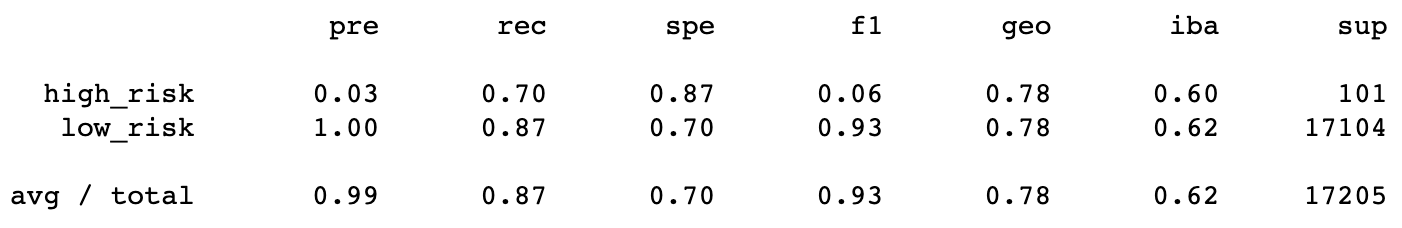
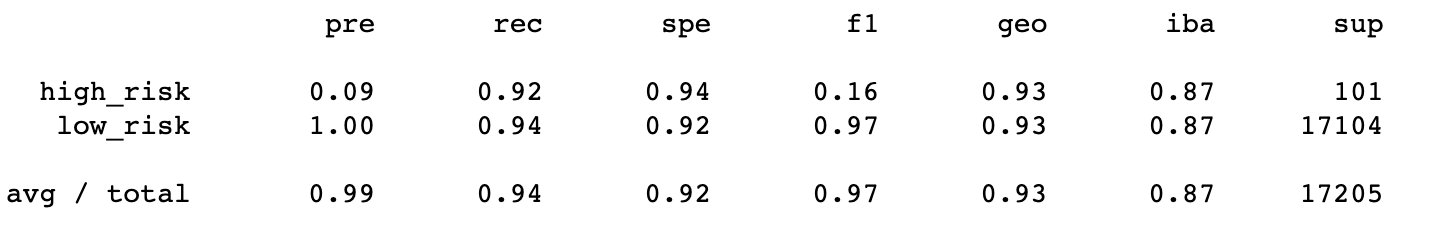
fixed picture issues and updated readme

diff --git a/README.md b/README.md
@@ -1,1 +1,86 @@
-# credit_risk_analysis
+# Credit Risk Analysis: Which Model is Right for the Job?
+
+## Overview
+
+### Introduction
+
+The world of machine learning offers a wide variety of models that make predictions on your dataset to varying degrees of accuracy (degrees of precision and recall as well). To test which one is the best for assessing risk in the field of credit, six supervised machine learning models were trained on the same data set and the results of their performance were stored in confusion matrices and classification reports. The six models in question are: Naive Random Oversampling, SMOTE Oversampling,  Cluster Centroids Undersampling, SMOTEENN combination Over and Undersampling, Balanced Random Forest Classifier, Easy Ensemble AdaBoost Classifier.
+
+### Resources
+
+This analysis employs the pandas, scikit-learn, and imbalanced-learn python libraries to both parse and model the results seen below
+
+## Results
+
+The results here will highlight each model's performance when it comes to accurately predicting high risk clients, as avoiding high risk loans will save the business more money.
+
+### Naive Random Oversampling
+
+![INSERT PICTURE HERE]
+![INSERT PICTURE HERE]
+
+Key Metrics:
+* Balanced Accuracy: 65%
+* Precision: 1%
+* Recall: 74%
+
+### SMOTE Oversampling
+
+![INSERT PICTURE HERE]
+![INSERT PICTURE HERE]
+
+Key Metrics:
+* Balanced Accuracy: 66%
+* Precision: 1%
+* Recall: 63%
+
+### Cluster Centroids Undersampling
+
+![INSERT PICTURE HERE]
+![INSERT PICTURE HERE]
+
+Key Metrics:
+* Balanced Accuracy: 54%
+* Precision: 1%
+* Recall: 69%
+
+### SMOTEENN Combination Over/Undersampling
+
+![INSERT PICTURE HERE]
+![INSERT PICTURE HERE]
+
+Key Metrics:
+* Balanced Accuracy: 64%
+* Precision: 1%
+* Recall: 70%
+
+
+### Balanced Random Forest Classifier, Easy Ensemble AdaBoost Classifier
+
+![INSERT PICTURE HERE]
+![INSERT PICTURE HERE]
+
+Key Metrics:
+* Balanced Accuracy: 79%
+* Precision: 3%
+* Recall: 70%
+
+### Easy Ensemble AdaBoost Classifier
+
+![INSERT PICTURE HERE]
+![INSERT PICTURE HERE]
+
+Key Metrics:
+* Balanced Accuracy: 93%
+* Precision: 9%
+* Recall: 92%
+
+## Summary
+
+### Performance Evaluation
+
+The model that performed the best out of this selection was the Easy Ensemble AdaBoost Classifier with 9% precision. Prioritizing precision in this decision is important because incorrectly identifying a client as high-risk results in a loss of potential business.
+
+### Recommendation
+
+ It is recommended that the business look for alternative machine learning models to help in the decision making process. In the best case scenario, Adaboost correctly guesses a high risk client approximately 9/100 times, the other 91 times would result in rejected clients that would have been likely to repay their loans.
